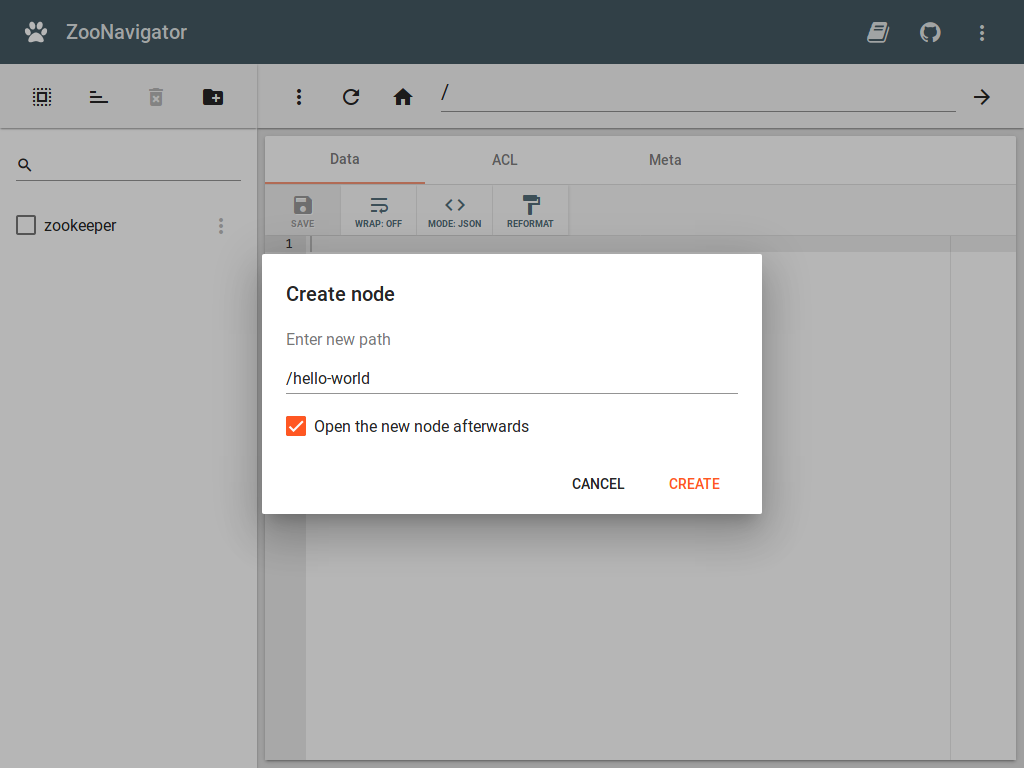
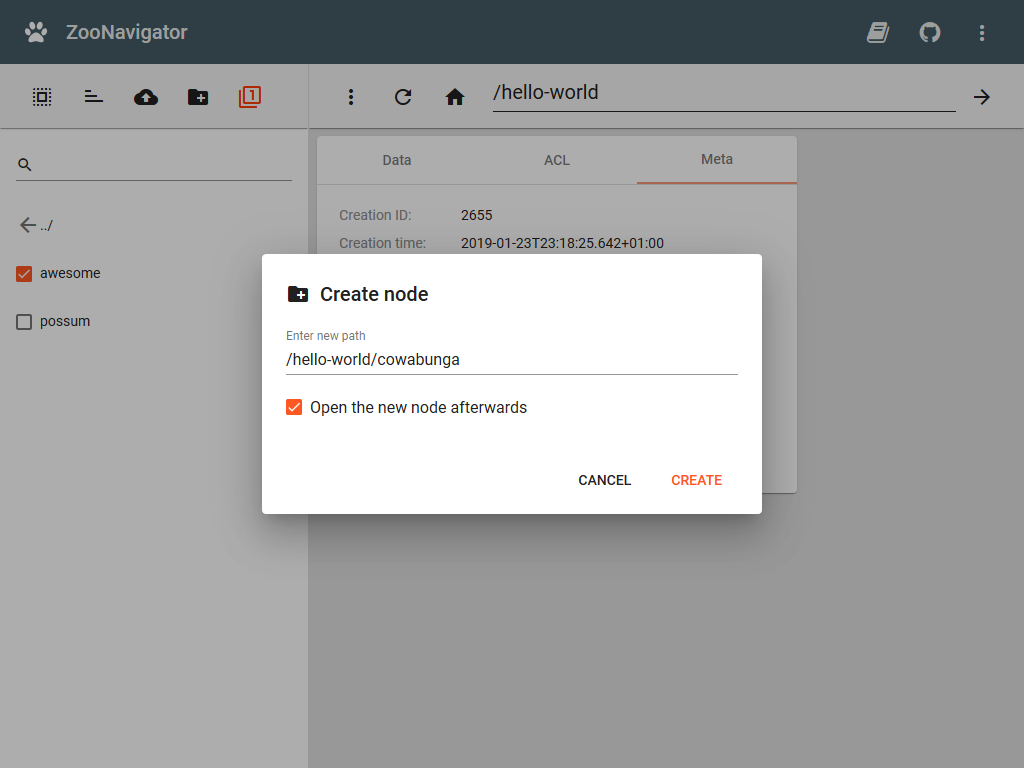
Update docs for new release

diff --git a/index.md b/index.md
@@ -9,28 +9,28 @@ It is an open source project and the source code is available on [GitHub](https:
 
 
 <div class="zoo screenshots">
-  <a href="images/screenshots/connect-form.png">
-    <img src="images/screenshots/connect-form.png" alt="Connect form"/>
+  <a href="{{site.baseurl}}/images/screenshots/connect-form.png">
+    <img src="{{site.baseurl}}/images/screenshots/connect-form.png" alt="Connect form"/>
   </a>
 
-  <a href="images/screenshots/znode-data-editor.png">
-    <img src="images/screenshots/znode-data-editor.png" alt="ZNode data editor"/>
+  <a href="{{site.baseurl}}/images/screenshots/znode-data-editor.png">
+    <img src="{{site.baseurl}}/images/screenshots/znode-data-editor.png" alt="ZNode data editor"/>
   </a>
 
-  <a href="images/screenshots/znode-acl-editor.png">
-    <img src="images/screenshots/znode-acl-editor.png" alt="ZNode ACL editor"/>
+  <a href="{{site.baseurl}}/images/screenshots/znode-acl-editor.png">
+    <img src="{{site.baseurl}}/images/screenshots/znode-acl-editor.png" alt="ZNode ACL editor"/>
   </a>
 
-  <a href="images/screenshots/znode-meta-editor.png">
-    <img src="images/screenshots/znode-meta-editor.png" alt="ZNode meta editor"/>
+  <a href="{{site.baseurl}}/images/screenshots/create-znode.png">
+    <img src="{{site.baseurl}}/images/screenshots/create-znode.png" alt="Create ZNode dialog"/>
   </a>
 
-  <a href="images/screenshots/create-znode.png">
-    <img src="images/screenshots/create-znode.png" alt="Create ZNode dialog"/>
+  <a href="{{site.baseurl}}/images/screenshots/import-znodes.png">
+    <img src="{{site.baseurl}}/images/screenshots/import-znodes.png" alt="Import ZNodes dialog"/>
   </a>
 
-  <a href="images/screenshots/znode-regex-search.png">
-    <img src="images/screenshots/znode-regex-search.png" alt="Regex ZNode search"/>
+  <a href="{{site.baseurl}}/images/screenshots/znode-regex-search.png">
+    <img src="{{site.baseurl}}/images/screenshots/znode-regex-search.png" alt="Regex ZNode search"/>
   </a>
 </div>
 
@@ -38,7 +38,7 @@ It is an open source project and the source code is available on [GitHub](https:
 
 This project is written in [Play Framework](https://github.com/playframework/playframework) and [Angular Framework](https://github.com/angular/angular).
 
-Web client UI is powered by [Teradata Covalent Platform](https://github.com/Teradata/covalent) and [Font Awesome](https://fontawesome.com/license).
+Web client UI is powered by [Teradata Covalent Platform](https://github.com/Teradata/covalent) and [Font Awesome](https://fontawesome.com).
 
 ### License
 

diff --git a/_docs/overview/features.md b/_docs/overview/features.md
@@ -7,21 +7,15 @@ order: 1
 The main goal of this project is to provide a way to efficiently manage ZNodes.  
 This is a brief summary of what you get:
 
-* ZNode mass delete, copy & paste and move operations
-* ZNode ACL management with support for recursive changes
-* ZNode data validation, syntax highlighting and auto-formatting
-* ZNode regex search tool (currently limited to children ZNodes)
-* SASL and Auth scheme authentication
-
-#### Auto connect
-
-Single instance of ZooNavigator is capable of connecting to any ZooKeeper server
-by giving it the corresponding address. However, if you want it to only connect
-to single ZooKeeper server you can preconfigure an address and ZooNavigator will skip the
-connect form and take the user directly to editor interface.
-
-For more info on how to enable this feature in see [Administration section]({{site.baseurl}}/administration/web-docker-options).
-
-#### Temporary connections
-
-All connections to ZooKeeper are short lived. By default every connection is closed after 5 seconds of inactivity. This keeps number of active connections low, even when used by more users at once.
+* ZNode operations
+    - move, copy & paste,
+    - export & import, 
+    - mass delete,
+    - regex search tool (currently limited to children nodes)
+* ZNode data editing
+    - data validation, syntax highlighting and auto-formatting
+    - edit binary data in base64 mode
+    - edit compressed data (gzip)
+* Auth & security
+    - SASL and Auth scheme ZooKeeper authentication
+    - ZNode ACL management (supports recursive changes)

diff --git a/_docs/get-started/usage.md b/_docs/get-started/usage.md
@@ -6,11 +6,9 @@ order: 1
 
 ZooNavigator is **available as a Docker image** - well, two actually.
 
-One contains ZooNavigator API that talks to ZooKeeper and the other one called ZooNavigator Web serves the front-end which in turn talks to the API.
+> Make sure that you use matching versions for both images
 
 > Docker images with **'latest' tag are development builds**, therefore it is recommended to always **use the ones with version tags**
-
-> Make sure that you use matching versions for both images
 
 Since there are two dependent Docker images it's **recommended to use Docker Compose**.  
 Below is the Compose file for the latest release:
@@ -20,7 +18,7 @@ version: '2.1'
 
 services:
   web:
-    image: elkozmon/zoonavigator-web:0.5.0
+    image: elkozmon/zoonavigator-web:0.6.0
     container_name: zoonavigator-web
     ports:
      - "8000:8000"
@@ -32,11 +30,12 @@ services:
      - api
     restart: always
   api:
-    image: elkozmon/zoonavigator-api:0.5.0
+    image: elkozmon/zoonavigator-api:0.6.0
     container_name: zoonavigator-api
     environment:
       API_HTTP_PORT: 9000
     restart: always
+
 ```
 
 Once you get that running, you can open up your web browser and navigate to port 8000 and ZooNavigator's Connect form should pop up.

diff --git a/_docs/how-tos/custom-url.md b/_docs/how-tos/custom-url.md
@@ -1,0 +1,15 @@
+---
+title: Custom URL
+category: how-tos
+order: 2
+---
+
+By default ZooNavigator will be available on root of your domain, e.g. `https://www.example.com/`
+
+If you need to deploy ZooNavigator with custom URL using a suffix like `/zoonavigator`, you will have to build ZooNavigator's Web Docker image yourself.
+
+There is a Docker build argument for that called `BASE_HREF` in ZooNavigator's Web Dockerfile. You will need to clone its [Git repository](https://github.com/elkozmon/zoonavigator-web) and from within that directory build your own Docker image like so:
+
+`docker build -t my-zoonavigator-web --build-arg BASE_HREF=/zoonavigator/ .`
+
+> Note that `BASE_HREF` has to start and end with forward slash `/`

diff --git a/_docs/how-tos/auto-connect.md b/_docs/how-tos/auto-connect.md
@@ -1,0 +1,14 @@
+---
+title: Auto connect
+category: how-tos
+order: 1
+---
+
+Auto connect lets you skip the <a href="{{site.baseurl}}/images/screenshots/connect-form.png">Connect form</a> where you enter ZooKeeper server address and throws you directly into the <a href="{{site.baseurl}}/images/screenshots/znode-data-editor.png">Editor UI</a>. This is useful when you only have a single ZooKeeper cluster.
+
+To enable this feature simply add these environment variables to ZooNavigator's Web Docker container:
+
+- `AUTO_CONNECT_CONNECTION_STRING`
+- `AUTO_CONNECT_AUTH_INFO` (this is optional)
+
+See [Administration section]({{site.baseurl}}/administration/web-docker-options) for description on these environment variables.

diff --git a/_docs/administration/web-docker-options.md b/_docs/administration/web-docker-options.md
@@ -44,6 +44,6 @@ the connect form, automatically connecting to listed ZooKeeper servers.
 ##### AUTO_CONNECT_AUTH_INFO
 *available since:* ``0.3.0``  
 In addition to presetting connection string as explained above, you can also
-set [Auth info](#) which ZooNavigator will use to authenticate with ZooKeeper
+set [Auth info]({{site.baseurl}}/help/faqs/#what-should-i-fill-in-for-auth-username-and-auth-password) which ZooNavigator will use to authenticate with ZooKeeper
 during the auto-connect.  
 **Use semicolon (;) to separate multiple entries.**

diff --git a/_posts/2019-01-24-0.6.0.md b/_posts/2019-01-24-0.6.0.md
@@ -1,0 +1,18 @@
+---
+title: 0.6.0
+type: minor
+---
+
+Implements several feature requests and fixes minor bugs.
+
+
+**Features:**
+
+* Export & import ZNode trees
+* Read & write gzip compressed ZNode data
+* Base64 editor mode for editing binary data
+* Custom URLs using added `BASE_HREF` Dockerfile build argument 
+
+**Changes:**
+
+* Turned off access logs on Dockers healthchecks
